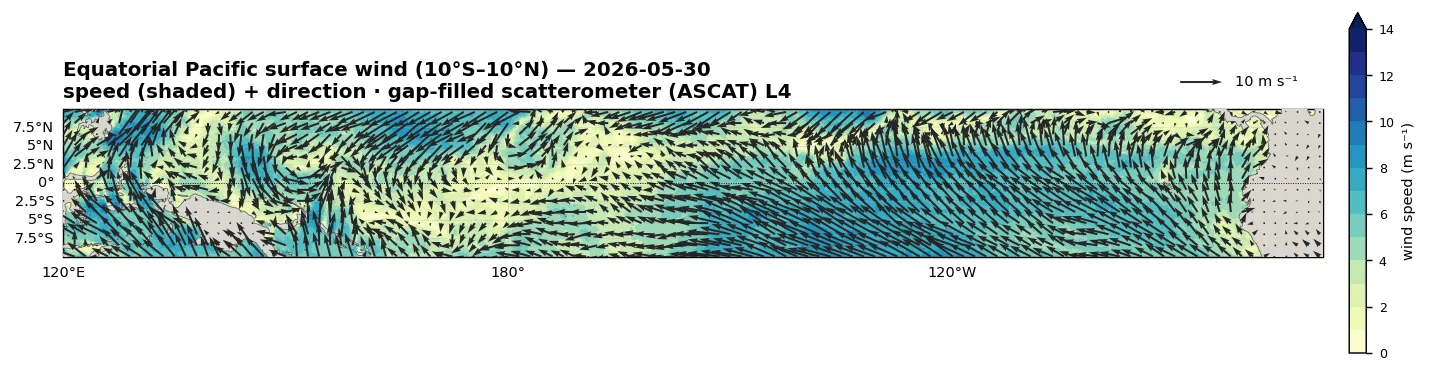
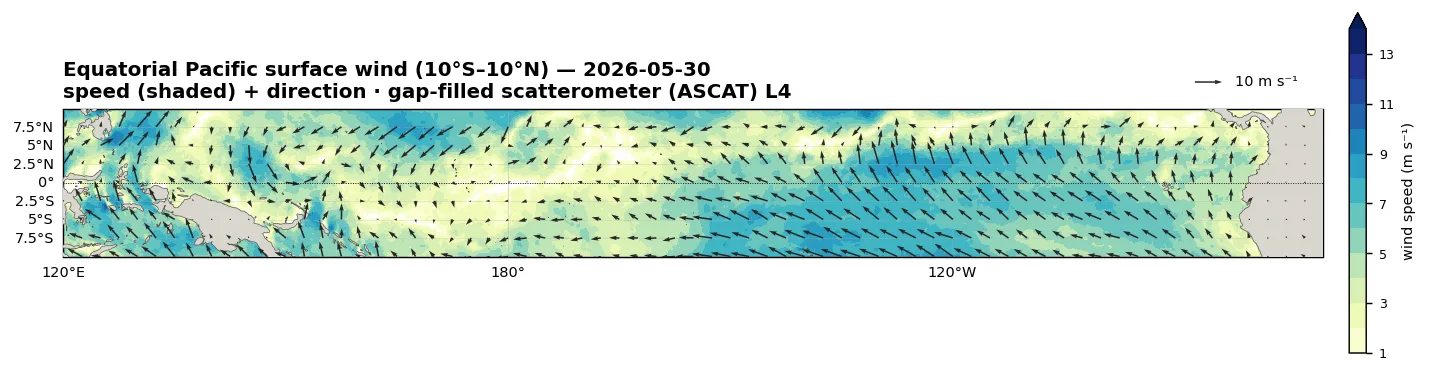
ASCAT wind map: sparser + smaller arrows, white background for calm (<1 m/s)

diff --git a/scripts/sst/sst_ascat_winds.py b/scripts/sst/sst_ascat_winds.py
@@ -65,12 +65,13 @@ def plot(dsd: xr.Dataset, day: pd.Timestamp, out: Path):
     fig, ax = plt.subplots(figsize=(13, 3.4), subplot_kw=dict(projection=proj))
     ax.set_extent([LON[0], LON[1], LAT[0], LAT[1]], crs=PC)
 
-    cf = ax.contourf(lon, lat, spd, levels=np.arange(0, SPEED_MAX + .01, 1.0),
+    # levels start at 1 m/s so calm areas (<1) stay unfilled → white background
+    cf = ax.contourf(lon, lat, spd, levels=np.arange(1.0, SPEED_MAX + .01, 1.0),
                      cmap="YlGnBu", extend="max", transform=PC)
-    # subsample vectors (~every 1.5°) for legibility
-    s = max(1, int(round(1.5 / float(np.diff(lon).mean()))))
+    # sparser (~every 2.5°), smaller arrows for legibility
+    s = max(1, int(round(2.5 / float(np.diff(lon).mean()))))
     q = ax.quiver(lon[::s], lat[::s], u[::s, ::s], v[::s, ::s], transform=PC,
-                  scale=300, width=0.0016, color="0.15", zorder=4)
+                  scale=460, width=0.0012, color="0.15", zorder=4)
     ax.quiverkey(q, 0.92, 1.18, 10, "10 m s⁻¹", labelpos="E", fontproperties={"size": 8})
 
     ax.add_feature(cfeature.LAND.with_scale("50m"), facecolor="#d9d6cf", zorder=3)
